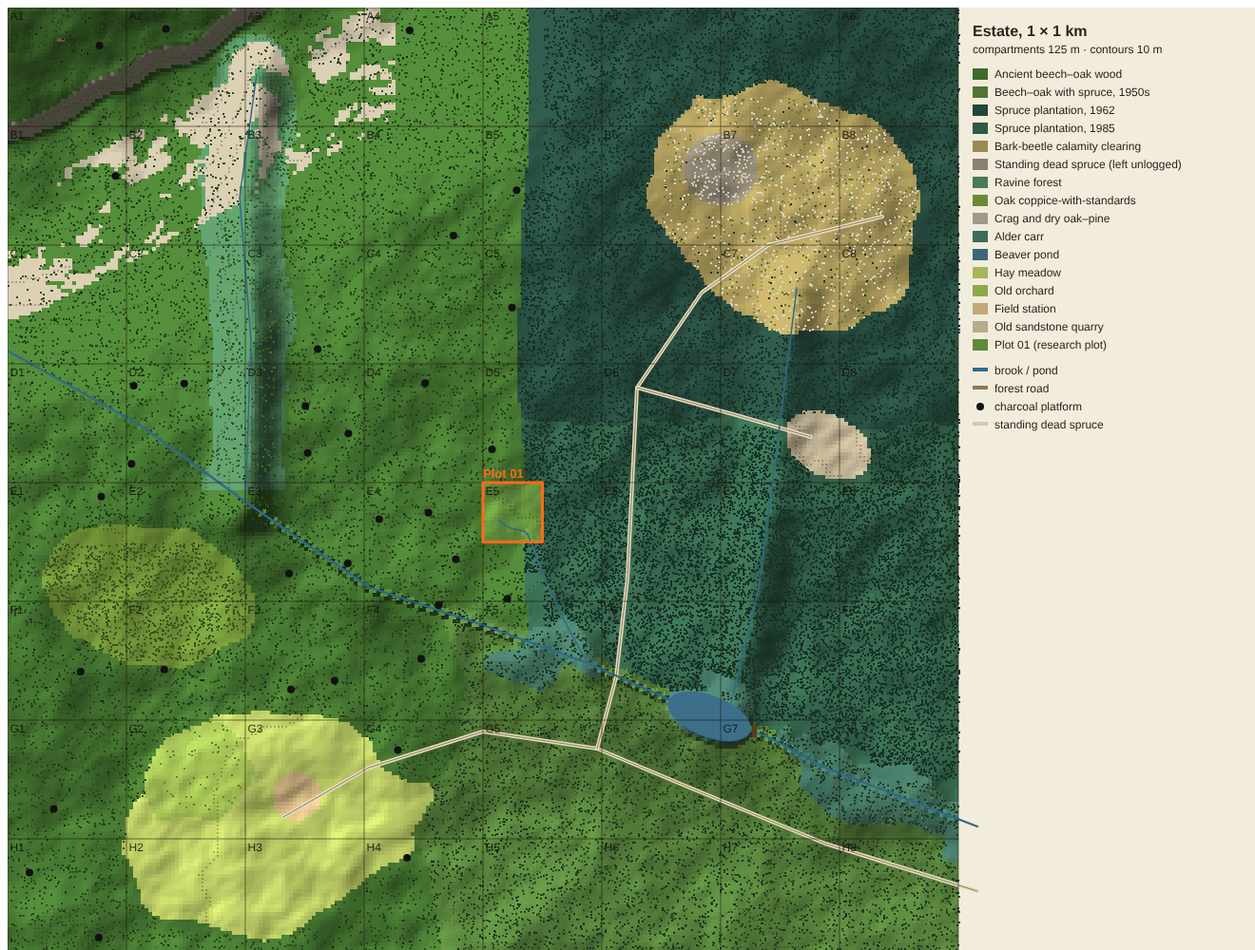
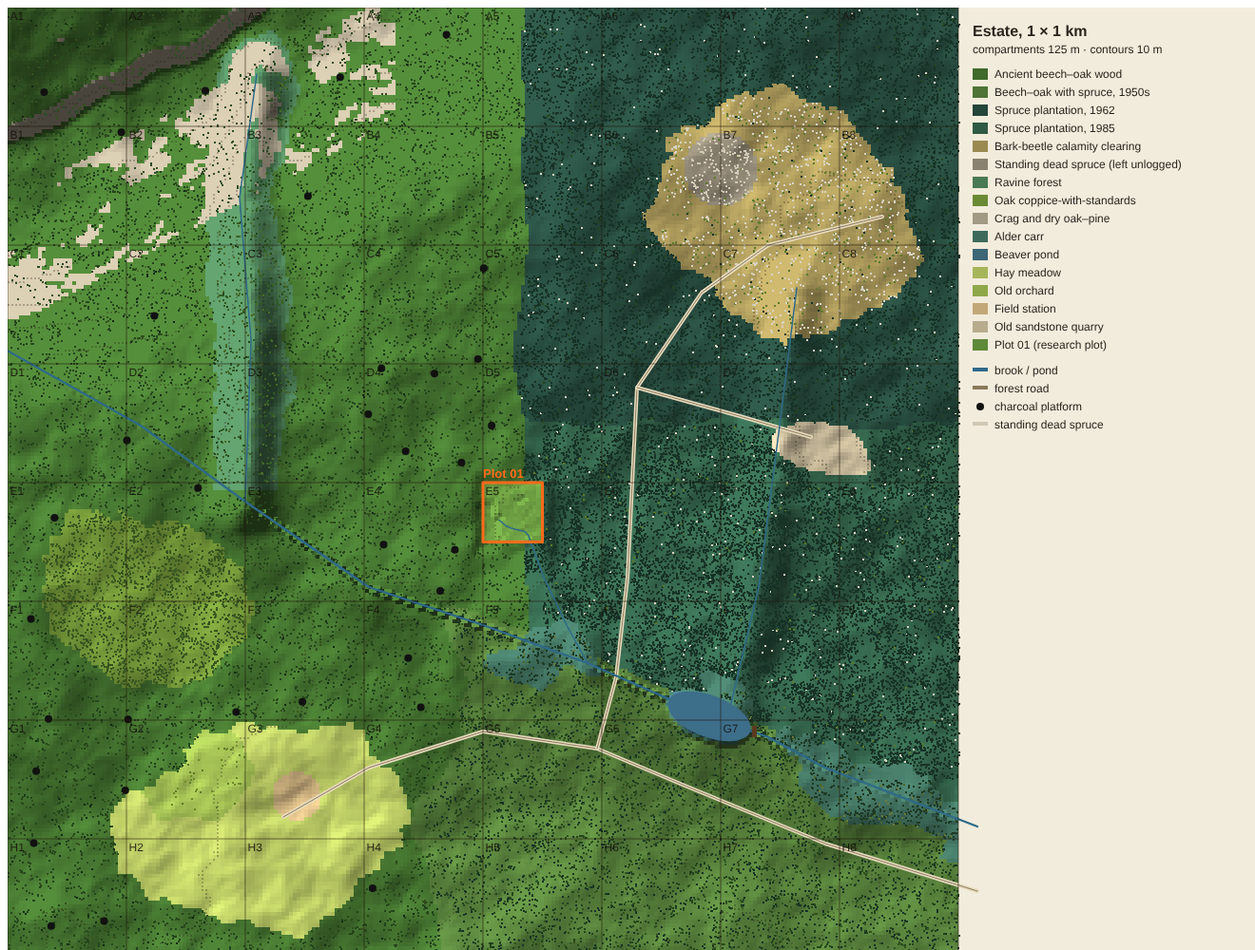
Map redesign: a hand-tinted, natural survey map; organic land-cover shapes in the world
- map.js: soft watercolour stand tints with hillshade, tree crowns as stipple, smooth contours (5 m,
  25 m), pond shoreline traced from the terrain, tapering brooks and cased roads as smooth curves,
  charcoal platforms as rings, faint dotted compartment grid, serif place names with paper halos,
  pennants for places still to be hand-made, compass, scale bar, vignette; 2x resolution
- location: a blue dot with a soft view cone and the view's footprint as a rounded glow
- cover.js: land-cover units are domain-warped (lobes and bays, not ovals); the ravine forest widens
  and narrows; the old wall line wanders beyond Plot 01 - the 3D world follows the same shapes

Claude-Session: https://claude.ai/code/session_0197mmHYvyG7FvGi7u7NX3Hg

Changed region(s): [[0.0, 0.0, 0.7765, 1.0], [0.7144, 0.0, 0.7765, 0.062]]

diff --git a/src/estate-render/map.js b/src/estate-render/map.js
@@ -5,58 +5,156 @@
 import E from '../data/estate.json' with { type: 'json' };
 import { generateEstate, coverAt, height, COVERS, compOf, compName } from '../estate/index.js';
 import { BESPOKE } from '../estate/tile-plan.js';
+import { BROOKS, pondW } from '../estate/terrain.js';
 
-const INK = { ancient: '#6f8f4e', mixedSouth: '#7f9a5a', spruce1962: '#4a6a58', spruce1985: '#587a62', calamity: '#c2b27a', snags: '#b4aa92', ravine: '#6a9478', coppice: '#94a85a', crag: '#b8ae98', alderCarr: '#6a9488', pond: '#6a98b0', meadow: '#c8d08a', orchard: '#a8bc72', farmstead: '#d2bc92', quarry: '#cabfa4', plot01: '#e07a3a' };
-const PAPER = '#efe7d2', H = E.size / 2, N = 250, CELL = E.size / N;
-const PLACES = [['Crags', -330, -400], ['Ravine', -228, -250], ['Oak coppice', -356, 118], ['Calamity clearing', 318, -292], ['Old orchard', -305, 300], ['Alder carr', 175, 205], ['Spruce plantations', 160, -110], ['Ancient wood', -140, -110]];
+// Map palette: soft natural tints (a hand-coloured survey map), laid over warm paper
+const INK = { ancient: '#7c9a5c', mixedSouth: '#8aa266', spruce1962: '#4f6e5c', spruce1985: '#5c7b66', calamity: '#cdbd86', snags: '#bdb39b', ravine: '#6f9a80', coppice: '#9cb066', crag: '#c4b9a2', alderCarr: '#7aa294', pond: '#7fb0c8', meadow: '#d3d892', orchard: '#b8c87e', farmstead: '#dcc79c', quarry: '#d2c6ab', plot01: '#8aa266' };
+const CROWN = { spruce: '#2f4a3c', pine: '#3e5a3a', beech: '#4a6a34', oak: '#55703a', holly: '#2c4426', hornbeam: '#5a7a3a', sycamore: '#4e7034', ash: '#62803e', lime: '#557636', alder: '#3e5e42', birch: '#8a9a62', rowan: '#6a8a3e', goatWillow: '#7a8a52', apple: '#6e8e3e', pear: '#62803a' };
+const PAPER = '#efe6cf', INKLINE = '#4a3f30', H = E.size / 2, N = 250, CELL = E.size / N;
+const SERIF = 'ui-serif, "New York", Georgia, "Iowan Old Style", serif', SANS = '-apple-system, "SF Pro Text", Inter, system-ui, sans-serif';
+const PLACES = [['Crags', -330, -410, 1], ['Ravine', -214, -250, 1], ['Oak coppice', -356, 118, 1], ['Calamity clearing', 318, -292, 1.1], ['Old orchard', -305, 288, 1], ['Alder carr', 175, 212, 0.9], ['Spruce plantations', 170, -110, 1.1], ['Ancient wood', -140, -110, 1.2], ['Hay meadows', -170, 420, 1]];
 const FLAGS = [['Plot 01', ...E.plot.origin], ['Field station', ...E.units.farmstead.buildings], ['Beaver pond', ...E.pond.centre], ['Old quarry', ...E.units.quarry.centre]];
 
-// draw the static map into a canvas of size px (square); returns the canvas
+// grids shared by the minimap and the full map (computed once): heights, cover colours, pond and wet masks
+let GRID = null;
+function grids() {
+  if (GRID) return GRID;
+  const hs = new Float32Array((N + 1) * (N + 1)), col = new Float32Array(N * N * 3), pond = new Float32Array((N + 1) * (N + 1));
+  const rgb = (c) => [1, 3, 5].map((k) => parseInt(c.slice(k, k + 2), 16));
+  for (let j = 0; j <= N; j++) for (let i = 0; i <= N; i++) { const x = -H + i * CELL, z = -H + j * CELL; hs[j * (N + 1) + i] = height(x, z); pond[j * (N + 1) + i] = pondW(x, z); }
+  for (let j = 0; j < N; j++) for (let i = 0; i < N; i++) { const c = rgb(INK[coverAt(-H + (i + 0.5) * CELL, -H + (j + 0.5) * CELL)] || '#999999'); col.set(c, (j * N + i) * 3); }
+  GRID = { hs, col, pond };
+  return GRID;
+}
+
+// marching squares: line segments where a grid field crosses `level`; returns polylines (joined, then smoothed)
+function isolines(field, n, level) {
+  const segs = [], at = (i, j) => field[j * (n + 1) + i], lerp = (a, b) => (level - a) / (b - a);
+  for (let j = 0; j < n; j++) for (let i = 0; i < n; i++) {
+    const a = at(i, j), b = at(i + 1, j), c = at(i + 1, j + 1), d = at(i, j + 1), k = (a > level) | ((b > level) << 1) | ((c > level) << 2) | ((d > level) << 3);
+    if (k === 0 || k === 15) continue;
+    const e = { t: [i + lerp(a, b), j], r: [i + 1, j + lerp(b, c)], b: [i + lerp(d, c), j + 1], l: [i, j + lerp(a, d)] };
+    const T = { 1: ['l', 't'], 2: ['t', 'r'], 3: ['l', 'r'], 4: ['r', 'b'], 5: ['l', 't', 'r', 'b'], 6: ['t', 'b'], 7: ['l', 'b'], 8: ['b', 'l'], 9: ['b', 't'], 10: ['t', 'r', 'b', 'l'], 11: ['b', 'r'], 12: ['r', 'l'], 13: ['r', 't'], 14: ['t', 'l'] }[k];
+    for (let q = 0; q < T.length; q += 2) segs.push([e[T[q]], e[T[q + 1]]]);
+  }
+  // join segments into polylines by matching endpoints
+  const key = (p) => `${p[0].toFixed(3)},${p[1].toFixed(3)}`, ends = new Map();
+  segs.forEach((sg, k) => { for (const p of sg) { const kk = key(p); if (!ends.has(kk)) ends.set(kk, []); ends.get(kk).push(k); } });
+  const used = new Uint8Array(segs.length), lines = [];
+  for (let k = 0; k < segs.length; k++) {
+    if (used[k]) continue; used[k] = 1; const line = [segs[k][0], segs[k][1]];
+    for (const dir of [1, 0]) for (;;) {
+      const tip = dir ? line[line.length - 1] : line[0], next = (ends.get(key(tip)) || []).find((q) => !used[q]); if (next == null) break;
+      used[next] = 1; const sg = segs[next], p = key(sg[0]) === key(tip) ? sg[1] : sg[0]; if (dir) line.push(p); else line.unshift(p);
+    }
+    lines.push(line);
+  }
+  return lines;
+}
+// a smooth path through points (midpoint quadratic curves): no corners
+function smoothPath(g, pts, f, closed = false) {
+  if (pts.length < 2) return;
+  const P = pts.map(f); g.moveTo(...(closed ? mid(P[P.length - 1], P[0]) : P[0]));
+  for (let k = closed ? 0 : 1; k < P.length - (closed ? 0 : 1); k++) { const a = P[k], b = P[(k + 1) % P.length]; g.quadraticCurveTo(a[0], a[1], ...mid(a, b)); }
+  if (!closed) g.lineTo(...P[P.length - 1]); else g.closePath();
+}
+const mid = (a, b) => [(a[0] + b[0]) / 2, (a[1] + b[1]) / 2];
+
+// draw the map into a canvas of size px (square); returns the canvas
 function drawMap(px, { labels = true } = {}) {
   const cv = document.createElement('canvas'); cv.width = cv.height = px;
-  const g = cv.getContext('2d'), S = px / E.size, X = (x) => (x + H) * S, Z = (z) => (z + H) * S;
-  const est = generateEstate();
-  // cover and hillshade on a 4 m grid, scaled up crisply
-  const grid = document.createElement('canvas'); grid.width = grid.height = N;
-  const gg = grid.getContext('2d'), img = gg.createImageData(N, N), hs = new Float32Array((N + 1) * (N + 1));
-  for (let j = 0; j <= N; j++) for (let i = 0; i <= N; i++) hs[j * (N + 1) + i] = height(-H + i * CELL, -H + j * CELL);
-  const hAt = (i, j) => hs[Math.min(N, j) * (N + 1) + Math.min(N, i)], rgb = (c) => [1, 3, 5].map((k) => parseInt(c.slice(k, k + 2), 16)), paper = rgb(PAPER);
+  const g = cv.getContext('2d'), S = px / E.size, X = (x) => (x + H) * S, Z = (z) => (z + H) * S, est = generateEstate(), G = grids();
+  const u = px / 1000;   // line weights and type scale with the map size
+  // 1. paper with a faint grain
+  g.fillStyle = PAPER; g.fillRect(0, 0, px, px);
+  // 2. land cover, hill-shaded, upscaled smoothly and softened so stand edges blend like watercolour
+  const tint = document.createElement('canvas'); tint.width = tint.height = N;
+  const tg = tint.getContext('2d'), img = tg.createImageData(N, N), hAt = (i, j) => G.hs[Math.min(N, j) * (N + 1) + Math.min(N, i)];
   for (let j = 0; j < N; j++) for (let i = 0; i < N; i++) {
-    const c = rgb(INK[coverAt(-H + (i + 0.5) * CELL, -H + (j + 0.5) * CELL)] || '#999999');
-    const shade = Math.max(0.78, Math.min(1.12, 1 + (-(hAt(i + 1, j) - hAt(i, j)) - (hAt(i, j + 1) - hAt(i, j))) * 0.12));
-    const contour = Math.floor(hAt(i, j) / 5) !== Math.floor(hAt(i + 1, j) / 5) || Math.floor(hAt(i, j) / 5) !== Math.floor(hAt(i, j + 1) / 5);
-    const major = contour && (Math.floor(hAt(i, j) / 25) !== Math.floor(hAt(i + 1, j) / 25) || Math.floor(hAt(i, j) / 25) !== Math.floor(hAt(i, j + 1) / 25));
-    const k = (j * N + i) * 4;
-    for (let q = 0; q < 3; q++) { let v = (c[q] * 0.7 + paper[q] * 0.3) * shade; if (contour) v *= major ? 0.72 : 0.86; img.data[k + q] = v; }
-    img.data[k + 3] = 255;
+    const k = (j * N + i) * 3, dx = hAt(i + 1, j) - hAt(Math.max(0, i - 1), j), dz = hAt(i, j + 1) - hAt(i, Math.max(0, j - 1));
+    const shade = Math.max(0.74, Math.min(1.16, 1 + (-dx - dz) * 0.09)), q = (j * N + i) * 4;   // light from the north-west
+    for (let c = 0; c < 3; c++) img.data[q + c] = (G.col[k + c] * 0.82 + 239 * 0.18) * shade;
+    img.data[q + 3] = 255;
   }
-  gg.putImageData(img, 0, 0);
-  g.imageSmoothingEnabled = false; g.drawImage(grid, 0, 0, px, px);
-  // roads, brooks, pond
-  g.lineCap = g.lineJoin = 'round';
-  const line = (pts) => { g.beginPath(); pts.forEach(([x, z], k) => (k ? g.lineTo(X(x), Z(z)) : g.moveTo(X(x), Z(z)))); g.stroke(); };
-  for (const r of Object.values(E.roads).filter(Array.isArray)) { g.strokeStyle = '#7a6a4a'; g.lineWidth = Math.max(2, 5 * S); line(r); g.strokeStyle = '#f2e8cc'; g.lineWidth = Math.max(1, 3 * S); line(r); }
-  for (const b of Object.values(E.brooks).filter((b) => b.points)) { g.strokeStyle = '#3a6a8a'; g.lineWidth = Math.max(1.2, b.halfWidth * 2.2 * S); line(b.points); }
-  { const p = E.pond; g.save(); g.translate(X(p.centre[0]), Z(p.centre[1])); g.rotate(p.yaw); g.fillStyle = '#7aa6be'; g.strokeStyle = '#3a6a8a'; g.lineWidth = 1; g.beginPath(); g.ellipse(0, 0, p.rx * S, p.rz * S, 0, 0, 7); g.fill(); g.stroke(); g.restore(); }
-  // charcoal platforms
-  g.fillStyle = '#2a241c'; for (const [x, z] of est.charcoal) { g.beginPath(); g.arc(X(x), Z(z), Math.max(1.5, 4 * S), 0, 7); g.fill(); }
-  // compartment grid
-  g.strokeStyle = 'rgba(60,45,30,0.55)'; g.lineWidth = 1; g.setLineDash([4, 3]);
-  for (let k = 0; k <= 8; k++) { const v = k * E.compartment * S; g.beginPath(); g.moveTo(v, 0); g.lineTo(v, px); g.moveTo(0, v); g.lineTo(px, v); g.stroke(); }
-  g.setLineDash([]);
+  tg.putImageData(img, 0, 0);
+  g.save(); g.imageSmoothingEnabled = true; g.imageSmoothingQuality = 'high'; g.filter = `blur(${Math.max(1, 2.2 * u)}px)`; g.drawImage(tint, -4 * u, -4 * u, px + 8 * u, px + 8 * u); g.restore();
+  // 3. tree crowns as soft stipple: the texture of the forest itself, from the estate's tree records
+  if (px >= 600) {
+    g.save();
+    for (const t of est.trees) {
+      if (t.status === 'snag') { g.fillStyle = 'rgba(235,228,210,0.85)'; g.fillRect(X(t.x) - 0.6 * u, Z(t.z) - 0.6 * u, 1.2 * u, 1.2 * u); continue; }
+      const r = Math.max(0.7, Math.min(3.4, (t.kind === 'spruce' || t.kind === 'pine' ? 0.6 + t.dbh * 0.03 : 1 + t.dbh * 0.05))) * S * 0.9;
+      g.globalAlpha = 0.34; g.fillStyle = CROWN[t.kind] || '#4a6a34'; g.beginPath(); g.arc(X(t.x), Z(t.z), r, 0, 6.283); g.fill();
+    }
+    g.restore();
+  } else {   // minimap: a light grain instead of 38k crowns
+    g.save(); g.globalAlpha = 0.18; for (let k = 0; k < 2600; k++) { const t = est.trees[(k * 7919) % est.trees.length]; g.fillStyle = CROWN[t.kind] || '#4a6a34'; g.fillRect(X(t.x), Z(t.z), 1.2, 1.2); } g.restore();
+  }
+  // 4. contours: smooth lines every 5 m, a firmer line every 25 m
+  g.save(); g.lineJoin = g.lineCap = 'round';
+  let lo = Infinity, hi = -Infinity; for (const v of G.hs) { lo = Math.min(lo, v); hi = Math.max(hi, v); }
+  for (let lv = Math.ceil(lo / 5) * 5; lv < hi; lv += 5) {
+    const major = lv % 25 === 0; g.strokeStyle = major ? 'rgba(92,66,40,0.42)' : 'rgba(92,66,40,0.2)'; g.lineWidth = (major ? 1.1 : 0.6) * u * (px < 600 ? 1.2 : 1);
+    for (const line of isolines(G.hs, N, lv)) { if (line.length < 4) continue; g.beginPath(); smoothPath(g, line, ([i, j]) => [i * CELL * S, j * CELL * S]); g.stroke(); }
+  }
+  g.restore();
+  // 5. water: the pond's real shoreline (traced from the terrain), brooks as smooth tapering curves
+  g.save(); g.lineJoin = g.lineCap = 'round';
+  for (const line of isolines(G.pond, N, 0.5)) { if (line.length < 6) continue; const f = ([i, j]) => [i * CELL * S, j * CELL * S];
+    g.beginPath(); smoothPath(g, line, f, true); g.fillStyle = '#86b6cc'; g.fill(); g.strokeStyle = 'rgba(52,96,124,0.7)'; g.lineWidth = 1.2 * u; g.stroke();
+    g.beginPath(); smoothPath(g, line, f, true); g.save(); g.clip(); g.strokeStyle = 'rgba(255,255,255,0.35)'; g.lineWidth = 3 * u; g.stroke(); g.restore(); }
+  for (const b of Object.values(BROOKS)) {
+    const n = Math.max(2, Math.round(b.line.length / 6)), pts = Array.from({ length: n + 1 }, (_, k) => b.line.at((k / n) * b.line.length));
+    for (const [w, c] of [[b.halfWidth * 2.6 + 2.2, 'rgba(255,250,236,0.55)'], [b.halfWidth * 2.2 + 0.6, '#4e88a8']]) {
+      g.strokeStyle = c; g.lineWidth = Math.max(1, w * S * (px < 600 ? 1.6 : 1)); g.beginPath(); smoothPath(g, pts, ([x, z]) => [X(x), Z(z)]); g.stroke();
+    }
+  }
+  g.restore();
+  // 6. roads: a soft cased line, curving smoothly
+  g.save(); g.lineJoin = g.lineCap = 'round';
+  for (const r of Object.values(E.roads).filter(Array.isArray)) for (const [w, c] of [[5.6, 'rgba(110,88,58,0.75)'], [3.6, '#f6eed8']]) { g.strokeStyle = c; g.lineWidth = Math.max(1, w * S * (px < 600 ? 1.5 : 1)); g.beginPath(); smoothPath(g, r, ([x, z]) => [X(x), Z(z)]); g.stroke(); }
+  g.restore();
+  // 7. charcoal platforms: small dark rings, as on a survey sheet
+  g.save(); g.strokeStyle = 'rgba(40,32,24,0.75)'; g.fillStyle = 'rgba(40,32,24,0.35)'; g.lineWidth = 1 * u;
+  for (const [x, z] of est.charcoal) { g.beginPath(); g.arc(X(x), Z(z), Math.max(1.4, 4.5 * S), 0, 6.283); g.fill(); g.stroke(); }
+  g.restore();
+  // 8. compartment grid: faint dotted lines; labels in small caps
+  g.save(); g.strokeStyle = 'rgba(74,63,48,0.28)'; g.lineWidth = 0.8 * u; g.setLineDash([1.5 * u, 4 * u]); g.lineCap = 'round';
+  for (let k = 1; k < 8; k++) { const v = k * E.compartment * S; g.beginPath(); g.moveTo(v, 0); g.lineTo(v, px); g.moveTo(0, v); g.lineTo(px, v); g.stroke(); }
+  g.restore();
+  const halo = (text, x, y, font, fill, w = 3) => { g.font = font; g.lineJoin = 'round'; g.strokeStyle = 'rgba(244,238,220,0.85)'; g.lineWidth = w * u; g.strokeText(text, x, y); g.fillStyle = fill; g.fillText(text, x, y); };
   if (labels) {
-    g.fillStyle = 'rgba(50,38,26,0.8)'; g.font = `${Math.round(px / 70)}px -apple-system, "SF Pro Text", Inter, system-ui, sans-serif`;
-    for (const c of est.compartments) g.fillText(c.id, X(c.x - E.compartment / 2) + 4, Z(c.z - E.compartment / 2) + px / 60);
-    g.font = `italic ${Math.round(px / 62)}px -apple-system, "SF Pro Text", Inter, system-ui, sans-serif`; g.fillStyle = 'rgba(40,30,20,0.85)'; g.textAlign = 'center';
-    for (const [name, x, z] of PLACES) g.fillText(name, X(x), Z(z));
+    g.textBaseline = 'top'; for (const c of est.compartments) halo(c.id, X(c.x - E.compartment / 2) + 6 * u, Z(c.z - E.compartment / 2) + 6 * u, `600 ${Math.round(11 * u)}px ${SANS}`, 'rgba(74,63,48,0.62)', 2.4);
+    g.textAlign = 'center'; g.textBaseline = 'middle';
+    for (const [name, x, z, k] of PLACES) halo(name, X(x), Z(z), `italic ${Math.round(17 * k * u)}px ${SERIF}`, 'rgba(56,44,30,0.88)', 4);
     g.textAlign = 'left';
   }
-  // places still waiting for their hand-made templates: an orange flag
+  // 9. places still to be hand-made: a small pennant
   for (const [name, x, z] of FLAGS) {
-    g.strokeStyle = '#3a2a1a'; g.lineWidth = Math.max(1, px / 500); g.beginPath(); g.moveTo(X(x), Z(z)); g.lineTo(X(x), Z(z) - px / 45); g.stroke();
-    g.fillStyle = '#ff6a1a'; g.beginPath(); g.moveTo(X(x), Z(z) - px / 45); g.lineTo(X(x) + px / 70, Z(z) - px / 55); g.lineTo(X(x), Z(z) - px / 70); g.fill();
-    if (labels) { g.fillStyle = '#7a3a10'; g.font = `bold ${Math.round(px / 66)}px -apple-system, "SF Pro Text", Inter, system-ui, sans-serif`; g.fillText(name, X(x) + px / 60, Z(z) - px / 70); }
+    const fx = X(x), fz = Z(z), h = 16 * u * (px < 600 ? 1.6 : 1);
+    g.strokeStyle = INKLINE; g.lineWidth = 1.3 * u; g.beginPath(); g.moveTo(fx, fz); g.lineTo(fx, fz - h); g.stroke();
+    g.fillStyle = '#e8743c'; g.beginPath(); g.moveTo(fx, fz - h); g.quadraticCurveTo(fx + h * 0.5, fz - h * 0.85, fx + h * 0.62, fz - h * 0.7); g.quadraticCurveTo(fx + h * 0.4, fz - h * 0.62, fx, fz - h * 0.52); g.fill();
+    g.fillStyle = INKLINE; g.beginPath(); g.arc(fx, fz, 1.8 * u, 0, 6.283); g.fill();
+    if (labels) { g.textBaseline = 'middle'; halo(name, fx + h * 0.75, fz - h * 0.72, `600 ${Math.round(13 * u)}px ${SANS}`, '#8a3e14', 3.4); }
   }
+  // 10. compass and scale bar (full map only); a soft vignette
+  if (labels) {
+    const cx = px - 56 * u, cy = px - 60 * u, r = 26 * u;   // bottom right, clear of the close button
+    g.save(); g.translate(cx, cy); g.fillStyle = 'rgba(244,238,220,0.82)'; g.beginPath(); g.arc(0, 0, r + 8 * u, 0, 6.283); g.fill();
+    g.strokeStyle = 'rgba(74,63,48,0.45)'; g.lineWidth = u; g.beginPath(); g.arc(0, 0, r, 0, 6.283); g.stroke();
+    g.fillStyle = INKLINE; g.beginPath(); g.moveTo(0, -r + 3 * u); g.lineTo(6 * u, 4 * u); g.lineTo(0, 0); g.lineTo(-6 * u, 4 * u); g.closePath(); g.fill();
+    g.fillStyle = 'rgba(74,63,48,0.35)'; g.beginPath(); g.moveTo(0, r - 3 * u); g.lineTo(6 * u, -4 * u); g.lineTo(0, 0); g.lineTo(-6 * u, -4 * u); g.closePath(); g.fill();
+    g.font = `700 ${Math.round(11 * u)}px ${SANS}`; g.textAlign = 'center'; g.fillStyle = INKLINE; g.fillText('N', 0, -r - 1 * u); g.restore();
+    const bx = 30 * u, by = px - 34 * u, len = 200 * S;
+    g.save(); g.fillStyle = 'rgba(244,238,220,0.82)'; g.beginPath(); g.roundRect(bx - 12 * u, by - 22 * u, len + 24 * u, 38 * u, 10 * u); g.fill();
+    for (let k = 0; k < 4; k++) { g.fillStyle = k % 2 ? 'rgba(74,63,48,0.85)' : 'rgba(244,238,220,1)'; g.fillRect(bx + (k * len) / 4, by, len / 4, 5 * u); }
+    g.strokeStyle = 'rgba(74,63,48,0.85)'; g.lineWidth = u; g.strokeRect(bx, by, len, 5 * u);
+    g.font = `500 ${Math.round(10.5 * u)}px ${SANS}`; g.fillStyle = INKLINE; g.textAlign = 'center'; g.textBaseline = 'bottom';
+    for (const [m, v] of [[0, '0'], [100, '100'], [200, '200 m']]) g.fillText(v, bx + m * S, by - 4 * u);
+    g.restore();
+  }
+  const vg = g.createRadialGradient(px / 2, px / 2, px * 0.38, px / 2, px / 2, px * 0.75); vg.addColorStop(0, 'rgba(60,44,24,0)'); vg.addColorStop(1, 'rgba(60,44,24,0.16)');
+  g.fillStyle = vg; g.fillRect(0, 0, px, px);
   return cv;
 }
 
@@ -92,11 +190,12 @@ export function createEstateMap({ view, onJump }) {
   sheet.append(closeBtn);
   document.body.append(mini, full);
   const miniOver = document.createElement('canvas'), fullOver = document.createElement('canvas');
-  miniOver.width = miniOver.height = 400; fullOver.width = fullOver.height = 1000;
+  miniOver.width = miniOver.height = 400; fullOver.width = fullOver.height = 1600;
   let ready = false;
 
-  // draw the maps once the 3D is up (they take a moment to compute)
-  setTimeout(() => { mini.prepend(drawMap(400, { labels: false })); mini.insertBefore(miniOver, mini.querySelector('.north')); sheet.prepend(drawMap(1000)); sheet.append(fullOver); ready = true; }, 50);
+  // draw the maps once the 3D is up (they take a moment to compute); the minimap first, the full map a moment later
+  setTimeout(() => { mini.prepend(drawMap(400, { labels: false })); mini.insertBefore(miniOver, mini.querySelector('.north')); ready = true;
+    setTimeout(() => { sheet.prepend(drawMap(1600)); sheet.append(fullOver); }, 400); }, 50);
 
   const toWorld = (el, e) => { const r = el.getBoundingClientRect(); return [(e.clientX - r.left) / r.width * E.size - H, (e.clientY - r.top) / r.height * E.size - H]; };
   mini.addEventListener('click', (e) => onJump(...toWorld(mini, e)));
@@ -117,15 +216,22 @@ export function createEstateMap({ view, onJump }) {
   }
 
   // the camera marker: a dot, the facing, and the ground footprint of the view
+  // where you are: a soft view cone in the direction the camera looks, the view's footprint as a rounded glow, a dot
   function drawMarker(cv) {
-    const g = cv.getContext('2d'), s = cv.width / E.size, v = view(); g.clearRect(0, 0, cv.width, cv.height);
-    const X = (v.x + H) * s, Z = (v.z + H) * s;
-    g.save(); g.translate(X, Z); g.rotate(Math.atan2(v.dx, -v.dz));   // the footprint's far edge points the way the camera looks
-    g.strokeStyle = '#ff6a1a'; g.lineWidth = Math.max(2, cv.width / 250); g.strokeRect(-v.w / 2 * s, -v.d / 2 * s, v.w * s, v.d * s);
-    g.fillStyle = '#ff6a1a'; g.beginPath(); g.moveTo(0, -v.d / 2 * s - cv.width / 60); g.lineTo(-cv.width / 90, -v.d / 2 * s); g.lineTo(cv.width / 90, -v.d / 2 * s); g.fill();
+    const g = cv.getContext('2d'), s = cv.width / E.size, v = view(), u = cv.width / 1000; g.clearRect(0, 0, cv.width, cv.height);
+    const X = (v.x + H) * s, Z = (v.z + H) * s, w = v.w * s, d = v.d * s;
+    g.save(); g.translate(X, Z); g.rotate(Math.atan2(v.dx, -v.dz));
+    g.fillStyle = 'rgba(255,255,255,0.16)'; g.strokeStyle = 'rgba(255,255,255,0.85)'; g.lineWidth = 1.6 * u;
+    g.beginPath(); g.roundRect(-w / 2, -d / 2, w, d, Math.min(w, d) * 0.22); g.fill(); g.stroke();
+    const cone = g.createLinearGradient(0, 0, 0, -d / 2 - 14 * u); cone.addColorStop(0, 'rgba(10,132,255,0.5)'); cone.addColorStop(1, 'rgba(10,132,255,0)');
+    g.fillStyle = cone; g.beginPath(); g.moveTo(0, 0); g.arc(0, 0, d / 2 + 14 * u, -Math.PI / 2 - 0.55, -Math.PI / 2 + 0.55); g.closePath(); g.fill();
     g.restore();
+    const r = Math.max(4.5, 7 * u);
+    g.fillStyle = 'rgba(10,132,255,0.22)'; g.beginPath(); g.arc(X, Z, r * 2.1, 0, 6.283); g.fill();
+    g.fillStyle = '#fff'; g.beginPath(); g.arc(X, Z, r + 1.6 * u, 0, 6.283); g.fill();
+    g.fillStyle = '#0a84ff'; g.beginPath(); g.arc(X, Z, r, 0, 6.283); g.fill();
   }
-  function update() { if (!ready) return; drawMarker(miniOver); if (full.classList.contains('open')) drawMarker(fullOver); }
+  function update() { if (!ready) return; drawMarker(miniOver); if (full.classList.contains('open') && fullOver.parentNode) drawMarker(fullOver); }
   function open() { full.classList.add('open'); update(); }
   function close() { full.classList.remove('open'); }
   function toggle() { if (full.classList.contains('open')) close(); else open(); }

diff --git a/src/estate/cover.js b/src/estate/cover.js
@@ -26,11 +26,15 @@ export const COVERS = {
 export const COVER_IDS = Object.keys(COVERS);
 
 // noise-perturbed ellipse membership: 1 inside, 0 outside
+// organic shape membership (< 1 inside): an ellipse seen through domain warping, so edges form lobes and bays
+// rather than an oval outline (two octaves of warp, then a fine fringe)
+const warp = (x, z, k) => [x + (fbm(x * 0.006 + k, z * 0.006) - 0.5) * 70 + (fbm(x * 0.02 + k * 3, z * 0.02 + 5) - 0.5) * 22, z + (fbm(x * 0.006 + 31 + k, z * 0.006 + 17) - 0.5) * 70 + (fbm(x * 0.02 + 9, z * 0.02 + k * 3) - 0.5) * 22];
 function blob(u, x, z, wobble = 0.22) {
-  const c = Math.cos(u.yaw || 0), s = Math.sin(u.yaw || 0), dx = x - u.centre[0], dz = z - u.centre[1];
-  return Math.hypot((dx * c + dz * s) / u.rx, (-dx * s + dz * c) / u.rz) + (fbm(x * 0.012 + u.centre[0] * 0.01, z * 0.012) - 0.5) * wobble * 2;
+  const [wx, wz] = warp(x, z, u.centre[0] * 0.01), c = Math.cos(u.yaw || 0), s = Math.sin(u.yaw || 0), dx = wx - u.centre[0], dz = wz - u.centre[1];
+  return Math.hypot((dx * c + dz * s) / u.rx, (-dx * s + dz * c) / u.rz) + (fbm(x * 0.05 + u.centre[0] * 0.01, z * 0.05) - 0.5) * wobble;
 }
-export const wallLineX = (z) => E.wallLine.x0 + E.wallLine.amp * Math.sin(z * E.wallLine.freq) * sstep(40, 140, Math.abs(z - 31));   // straight through Plot 01, wandering beyond it
+// the old wall: straight through Plot 01 (where its course is surveyed), wandering like a field boundary beyond it
+export const wallLineX = (z) => E.wallLine.x0 + (E.wallLine.amp * Math.sin(z * E.wallLine.freq) + (fbm(z * 0.006 + 3, 7.7) - 0.5) * 150) * sstep(40, 140, Math.abs(z - 31));
 const U = E.units;
 const gorge = polyline(E.brooks.gorge.points);
 const main = polyline(E.brooks.main.points);
@@ -53,7 +57,7 @@ export function coverAt(x, z) {
   const { d: rd } = ridgeLine.near(x, z), side = ridgeSide(x, z);
   // crags: the cliff band where the ridge's face is steep, and patchy bare rock along the crest
   if (x < -90 && rd < 130 && (slope(x, z) > 0.3 || (side < -12 && rd < 60 && fbm(x * 0.025 + 7, z * 0.025) > 0.52))) return 'crag';
-  if (!gorge.farFrom(x, z, 60) && gorge.near(x, z).d < 42 + (vnoise(x * 0.03, z * 0.03) - 0.5) * 16 && z < 10) return 'ravine';
+  if (!gorge.farFrom(x, z, 70) && gorge.near(x, z).d < 38 + (fbm(x * 0.02 + 4, z * 0.02) - 0.5) * 34 && z < 10) return 'ravine';   // the gorge's forest widens and narrows with the slopes
   if (blob(U.coppice, x, z) < 1) return 'coppice';
   // wet valley floor along the main brook (east of the gorge) and around the pond
   // wet valley floor: ground less than ~2.5 m above the main brook's bed, east of the gorge, and the pond's rim

diff --git a/docs/world.md b/docs/world.md
@@ -749,6 +749,7 @@ Sycamore (6.1) is common here.
 1. **E1 — The estate in data.** A seeded, headless generator: terrain, brooks, the landscape units, the land-use history, compartments, patches and initial tree records. Tests, plus a rendered map image for review.
    *Done: `src/estate/` (terrain, cover, generator) and `src/data/estate.json`; `test/estate.test.js`; `node tools/estate-map.cjs` renders `docs/estate/estate-map.png`. About 38,000 starting trees. Densities and sizes per cover are an illustrative starting state, not yet sourced parameters; growth with published gap-model parameters comes with the simulation.*
 2. **E2 — The estate map view.** Compartments, stand types and history, with a click to jump into 3D.
+   *Redrawn as a hand-tinted survey map: soft watercolour stand tints with hillshade, every tree crown as stipple, smooth contour lines (every 5 m, firmer every 25 m), the pond's shoreline traced from the terrain, smooth tapering brooks and cased roads, serif place names with paper halos, a compass, a scale bar, and a blue location dot with a view cone. The land-cover shapes themselves became organic (domain-warped lobes and bays) and the old wall line wanders beyond Plot 01, in the world as on the map.*
    *Built: `src/estate-render/map.js`. A minimap in the corner (click to jump) and a full field-notebook map (M or the Map button): cover, contours every 5 m, brooks, pond, roads, charcoal platforms, compartment grid and labels, place names, flags on the bespoke places, the camera's footprint and facing; hovering shows a compartment's area, stems, cover shares and history; a click flies the camera there.*
 3. **E3 — Streaming 3D.** Tiles built around the camera from the estate data; full detail near, impostor trees further out; animals as populations, spawned as rigs near the camera.
    *First pass built: `estate.html`. `src/estate/tile-plan.js` turns the 2D design into a per-tile plan (seeded from the tile's coordinates); `src/estate-render/tile.js` builds it (near: leaf-clump crowns and ground cover; far: crown blobs and cones); `src/estate-render/stream.js` keeps a 5 × 5 block of tiles around the camera. The bespoke places (Plot 01, the station, the quarry, the pond and dam) are built from the generic rules and flagged with survey stakes until their templates exist. Detail: near tiles are built at Plot 01's density from per-tile field grids (height every 0.5 m; cover, canopy shade and spruce nearness every 1 m; each stand type has a canopy closure lowered in its real gaps): litter, grass, moss, wood sorrel, ferns, sedges, twigs and limbs, cones, bilberry, bramble, willowherb, stumps, logs, meadow flowers, molehills, rocks; trees with full crowns, branches, root flares and buttresses, moss collars, ivy, birch lenticels, dead branch stubs on spruce. Every tree varies in height, crown, lean and tint; stands thin out in clumps and gaps; planted spruce has dominant, co-dominant and suppressed trees, and some are dying back. `?detail=0.5` thins the ground cover. Animals: `src/estate/fauna.js` holds 42 animals as data (13 roe deer in groups, a boar sounder, 3 badgers at a second sett, a fox pair, 4 hares, 6 squirrels, a beaver family on the pond, 2 buzzards), each with a home range on walkable ground; `src/estate-render/fauna.js` gives them rigs near the camera. Follow picks the nearest of a kind.*
